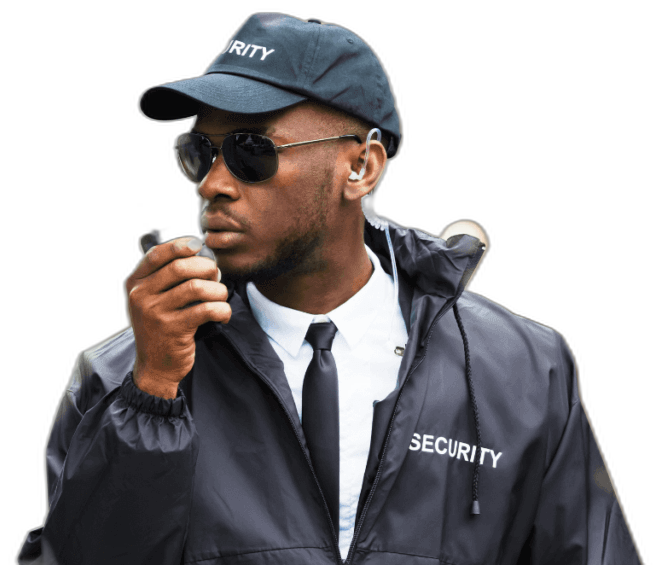
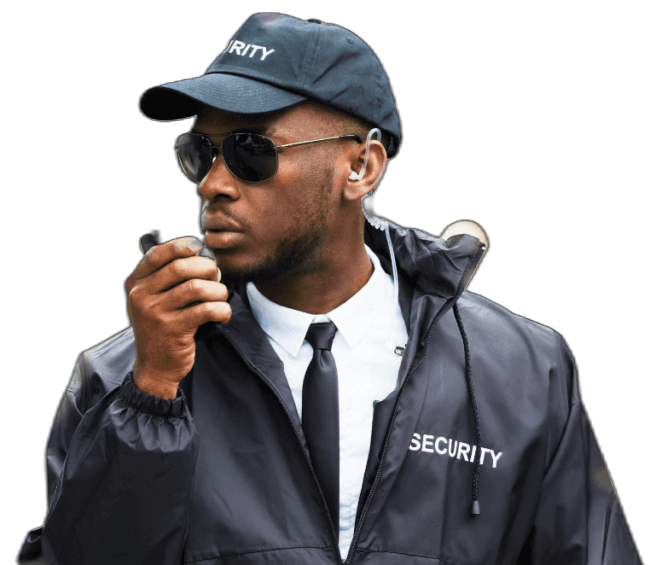
bien

diff --git a/src/components/site/Team.tsx b/src/components/site/Team.tsx
@@ -8,39 +8,40 @@ const teamPhotos = [sibusisoPhoto, lindelwaPhoto];
 
 export function Team() {
   return (
-    <section id="team" className="bg-secondary py-20 sm:py-24">
+    <section id="team" className="bg-primary py-20 text-primary-foreground sm:py-24">
       <div className="shell">
         <Reveal>
           <p className="eyebrow">Our Team</p>
-          <h2 className="mt-3 text-3xl font-bold sm:text-4xl">The people behind SbuForce</h2>
+          <h2 className="mt-3 max-w-xl text-3xl font-bold sm:text-4xl">
+            The people behind SbuForce
+          </h2>
           <span className="gold-rule mt-5" />
+          <p className="mt-6 max-w-xl text-base leading-relaxed text-primary-foreground/80">
+            The two directors leading SbuForce Security's guarding, monitoring and technical
+            operations.
+          </p>
         </Reveal>
 
-        <RevealGroup
-          as="div"
-          className="mt-10 flex flex-col gap-1 overflow-hidden rounded-sm sm:h-[26rem] sm:flex-row"
-        >
+        <RevealGroup as="div" className="mt-10 flex flex-col gap-8 sm:flex-row sm:gap-1">
           {management.map((person, i) => (
             <div
               key={person.name}
               tabIndex={0}
-              className="team-panel reveal-item group relative h-72 overflow-hidden bg-primary outline-none sm:h-full"
+              className="team-panel reveal-item outline-none"
               style={{ "--reveal-i": i } as React.CSSProperties}
             >
-              <img
-                src={teamPhotos[i]}
-                alt={`${person.name}, ${person.role} at SbuForce Security`}
-                width={400}
-                height={500}
-                loading="lazy"
-                className="size-full object-cover object-top transition-transform duration-500 group-hover:scale-105"
-              />
-              <div
-                className="absolute inset-0 bg-gradient-to-t from-black/85 via-black/10 to-transparent"
-                aria-hidden="true"
-              />
-              <div className="absolute inset-x-0 bottom-0 p-6">
-                <p className="text-lg font-semibold text-white">{person.name}</p>
+              <div className="h-72 overflow-hidden rounded-sm bg-graphite sm:h-96">
+                <img
+                  src={teamPhotos[i]}
+                  alt={`${person.name}, ${person.role} at SbuForce Security`}
+                  width={400}
+                  height={500}
+                  loading="lazy"
+                  className="size-full object-cover object-top transition-transform duration-500 hover:scale-105"
+                />
+              </div>
+              <div className="mt-4 border-l-2 border-gold pl-4">
+                <p className="text-lg font-semibold">{person.name}</p>
                 <p className="eyebrow mt-1">{person.role}</p>
               </div>
             </div>

diff --git a/src/components/site/Hero.tsx b/src/components/site/Hero.tsx
@@ -15,7 +15,7 @@ export function Hero() {
         alt="Industrial business park access road with security boom gate at dusk"
         width={820}
         height={1104}
-        className="absolute inset-0 -z-20 size-full object-cover opacity-60"
+        className="absolute inset-0 -z-20 size-full object-cover opacity-50"
       />
       <div
         className="absolute inset-0 -z-20 bg-gradient-to-r from-primary via-primary/80 to-primary/20"
@@ -26,7 +26,7 @@ export function Hero() {
         alt="Security officer on duty responding on a two-way radio"
         width={661}
         height={565}
-        className="pointer-events-none absolute bottom-10 left-1/2 -z-10 h-[42%] w-auto -translate-x-1/2 object-contain object-bottom opacity-60 sm:bottom-12 sm:h-[64%] md:bottom-16 md:left-auto md:right-4 md:h-[88%] md:translate-x-0 lg:right-12"
+        className="pointer-events-none absolute bottom-10 left-1/2 -z-10 h-[42%] w-auto -translate-x-1/2 object-contain object-bottom opacity-50 sm:bottom-12 sm:h-[64%] md:bottom-16 md:left-auto md:right-4 md:h-[88%] md:translate-x-0 lg:right-12"
       />
 
       <div className="shell pt-20 pb-10 sm:pt-28 sm:pb-12 lg:pt-36 lg:pb-14">

diff --git a/RULES.md b/RULES.md
@@ -65,7 +65,7 @@ Current section order and treatment (top to bottom in [src/routes/index.tsx](src
 8. **FAQ** — light, real questions answered from facts that exist elsewhere on the site
 9. **Contact** — light, form + contact-detail cards
 
-**Team section** ([Team.tsx](src/components/site/Team.tsx)): two photo panels in a flex row, each `team-panel` (a CSS utility in [styles.css](src/styles.css) that transitions `flex-grow` on `:hover`/`:focus-within`) — hovering one panel widens it and narrows the other, an image-accordion effect done in pure CSS, no JS/animation library. Name and role sit in an always-visible caption over a gradient scrim at the bottom of each panel — the hover effect is a bonus flourish, never required to read who's who (`tabIndex={0}` + `:focus-within` means keyboard users get the same widen effect on focus). Photos come from real client-supplied headshots, background-removed and cropped to content bounds before landing in `src/assets/` — same rule as the hero cutout in section 12–13. If a third team member is ever added, the flex-row approach scales, but re-check that hovering one of three doesn't make the other two too narrow to read.
+**Team section** ([Team.tsx](src/components/site/Team.tsx)): dark section (`bg-primary`, matching Trust/Services/Credentials) with an eyebrow + heading + one-line real intro (their actual roles: guarding, monitoring, technical operations — not an invented claim about day-to-day involvement) + gold-rule, then a row of photo panels. Each `team-panel` (the direct flex child — the CSS utility in [styles.css](src/styles.css) that transitions `flex-grow` on `:hover`/`:focus-within`) wraps a photo box *and* its caption stacked vertically, so hovering widens the whole column, caption included, not just the image. Name + role sit **below** the photo as a plain caption (the `border-l-2 border-gold pl-4` treatment already used under the About/Sectors photos) rather than overlaid on it — no gradient scrim, no nickname/quote-styled line above the name (a reference design we drew this layout from used stylised nicknames; SbuForce's directors don't have those, and inventing one would be fabricated content, so the caption is just their real name and role). Photos come from real client-supplied headshots, background-removed and cropped to content bounds before landing in `src/assets/` — same rule as the hero cutout in section 12–13. If a third team member is ever added, the flex-row approach scales, but re-check that hovering one of three doesn't make the other two too narrow to read.
 
 This dark/light/secondary alternation is intentional and load-bearing for visual rhythm — preserve it when adding or reordering sections. Layouts already vary (full-width grids, two-column splits, sticky image) rather than repeating one `[icon][heading][text][button]` block; keep that variation when adding sections instead of defaulting to a generic feature-card grid.
 
